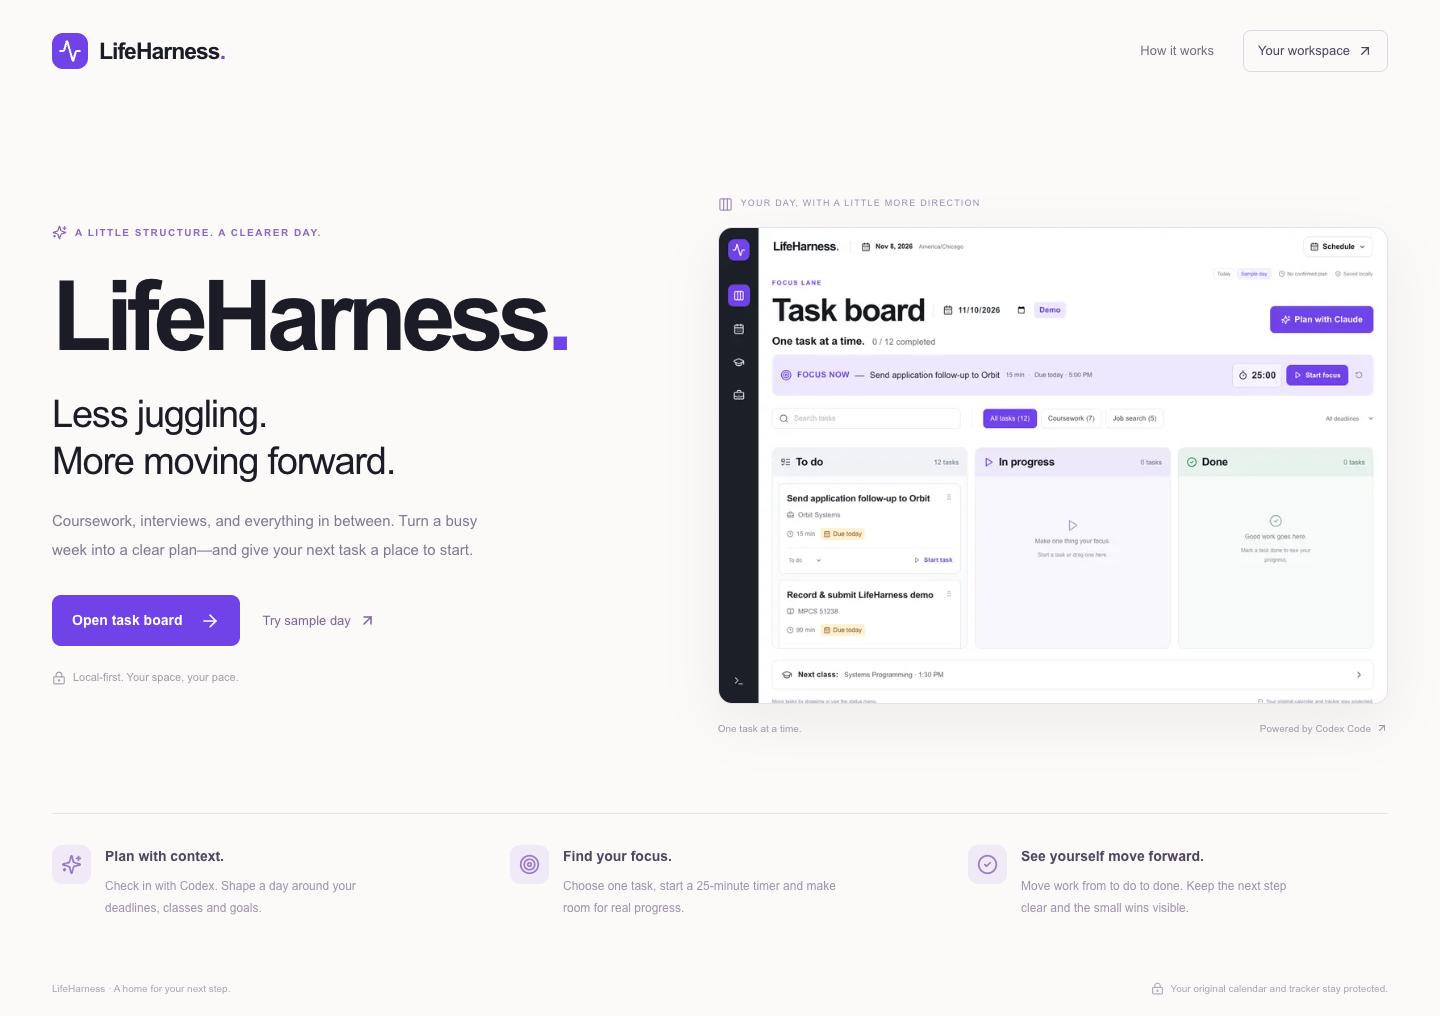
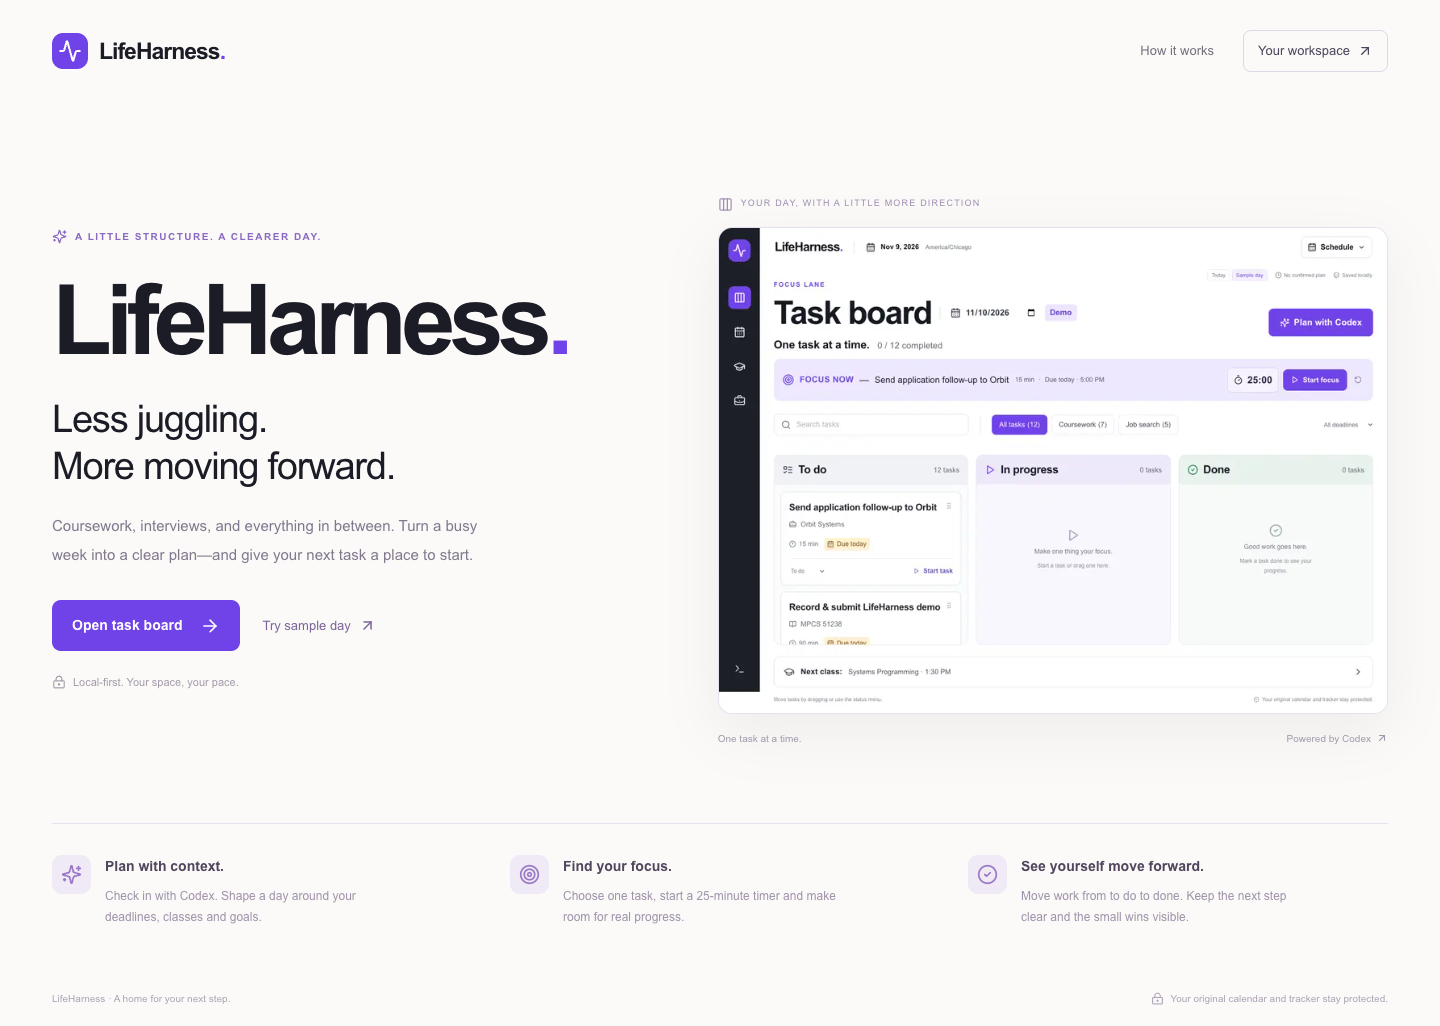
Verify Codex launch policy and document live connection limitation

diff --git a/tests/planner-files.test.ts b/tests/planner-files.test.ts
@@ -1,0 +1,68 @@
+import test from 'node:test';
+import assert from 'node:assert/strict';
+import {
+  mkdtempSync,
+  cpSync,
+  mkdirSync,
+  symlinkSync,
+  readFileSync,
+  readdirSync,
+  rmSync,
+  realpathSync,
+} from 'node:fs';
+import { tmpdir } from 'node:os';
+import { join } from 'node:path';
+import { spawnSync } from 'node:child_process';
+import { evaluateTool } from '../src/lib/protection';
+
+test('Codex quoted JSON writes validate before atomic saving and reject invalid memory', async () => {
+  const root = realpathSync(mkdtempSync(join(tmpdir(), 'lifeharness-helper-')));
+  try {
+    for (const path of ['scripts', 'src/lib', 'data/sources'])
+      cpSync(path, join(root, path), { recursive: true });
+    mkdirSync(join(root, 'data/generated'));
+    symlinkSync(
+      join(process.cwd(), 'node_modules'),
+      join(root, 'node_modules'),
+    );
+    const helper = join(root, 'scripts/planner-files.mjs');
+    const notes = JSON.stringify({
+      updatedAt: new Date().toISOString(),
+      carryOver: ['task-algo'],
+      reflections: ['Confirmed study intention.'],
+    });
+    const command = `node '${helper}' write notes <<'LIFEHARNESS_JSON'\n${notes}\nLIFEHARNESS_JSON`;
+    const event = (command: string) => ({
+      tool_name: 'Bash',
+      cwd: join(root, 'data/generated'),
+      tool_input: { command },
+    });
+    assert.equal((await evaluateTool(event(command), root)).allowed, true);
+    assert.equal(
+      (await evaluateTool(event(command + '\ntouch forbidden'), root)).allowed,
+      false,
+    );
+    assert.equal(
+      (await evaluateTool(event(command.replace(notes, '{}')), root)).allowed,
+      false,
+    );
+    const run = (input: string) =>
+      spawnSync(process.execPath, [helper, 'write', 'notes'], {
+        cwd: join(root, 'data/generated'),
+        input,
+        encoding: 'utf8',
+        env: { ...process.env, TSX_DISABLE_CACHE: '1' },
+      });
+    assert.equal(run(notes).status, 0);
+    const saved = readFileSync(join(root, 'data/generated/notes.json'), 'utf8');
+    assert.deepEqual(JSON.parse(saved), JSON.parse(notes));
+    assert.notEqual(run('{}').status, 0);
+    assert.equal(
+      readFileSync(join(root, 'data/generated/notes.json'), 'utf8'),
+      saved,
+    );
+    assert.deepEqual(readdirSync(join(root, 'data/generated')), ['notes.json']);
+  } finally {
+    rmSync(root, { recursive: true, force: true });
+  }
+});

diff --git a/src/app/page.tsx b/src/app/page.tsx
@@ -80,7 +80,7 @@ export default async function Home({
               aria-label="Explore the task board"
             >
               <Image
-                src="/board-preview.png"
+                src="/codex-board-preview.png"
                 alt="LifeHarness task board with To do, In progress and Done columns, a focus timer and task filters"
                 width={1487}
                 height={1058}
@@ -91,7 +91,7 @@ export default async function Home({
             <div className="home-preview-caption">
               <span>One task at a time.</span>
               <span>
-                Powered by Codex Code
+                Powered by Codex
                 <ArrowUpRight size={12} />
               </span>
             </div>

diff --git a/src/app/layout.tsx b/src/app/layout.tsx
@@ -2,7 +2,7 @@ import type { Metadata } from 'next';
 import './globals.css';
 export const metadata: Metadata = {
   title: 'LifeHarness | Your day, in focus',
-  description: 'A local-first daily planning dashboard powered by Codex Code.',
+  description: 'A local-first daily planning dashboard powered by Codex.',
 };
 export default function RootLayout({
   children,

diff --git a/docs/verification.md b/docs/verification.md
@@ -1,11 +1,58 @@
-# Current Codex verification
+# Codex migration verification — November 9, 2026
 
-Migration is in progress. See the final verification update for actual live evidence.
-Historical Claude records under archive are not current Codex evidence.
+The owner chose a Codex-only adaptation. Historical Claude records in archive are
+not Codex evidence. No confirmed plan is shipped or fabricated as a real check-in.
 
-- Codex CLI installed and authenticated: 0.160.0, ChatGPT login.
-- Native launcher policy, guarded command parser, schema/path tests: 25 unit tests pass.
-- TypeScript check passes.
-- Native OS sandbox rejects opening protected academic source for writing.
-- Morning skill selection, multi-turn confirmation/refusal and live tool-hook integration:
-  pending actual Codex verification; not yet marked passed.
+## Passed locally
+
+- Installed Codex CLI 0.160.0; `codex login status` reports ChatGPT login.
+- Normal `npm run planner:demo` enters the real Codex TUI, with working directory
+  data/generated and the existing GPT-6.1-Sol selection preserved.
+- Native project trust and the two authored hooks were reviewed/trusted in that TUI.
+- `/skills` → List skills → searching `morning` displays the project's
+  `morning-check-in` skill and its planning description. This establishes discovery,
+  not automatic selection during a model response.
+- Launcher enumerates configured MCP servers, disables each with a valid native
+  configuration, then re-enumerates and refuses to launch if any remain enabled.
+- Native `codex sandbox -P :workspace -C data/generated` refuses opening the
+  academic source for writing. The launcher repeats this probe before starting.
+- 26 unit tests pass: date/DST, schemas, references, completion precedence, APIs,
+  stale reads, links/traversal, native command policy and atomic helper writes.
+  Invalid memory leaves the prior saved bytes unchanged and no temporary file.
+- `npm run typecheck`, production build, formatting check and deterministic
+  `npm run test:safety` pass. The latter runs the actual hook process with a
+  simulated malicious Bash payload; it is not a model-tool integration run.
+- 8 Playwright tests pass: landing navigation, responsive board from 320–1487px,
+  filters, task persistence/drag, focus timer, schedule/career, error recovery,
+  focus trapping, and automatic plan refresh. Refresh measured **3408 ms**.
+- Homepage and board screenshots refreshed with current Codex labels.
+- Independent read-only review completed; the stale Claude live-test command and
+  native MCP override compatibility were corrected and reviewed again.
+
+## Attempted, not passed
+
+Actual Codex `exec` morning and isolated hook-test sessions were attempted. CLI
+connections to `wss://chatgpt.com/backend-api/codex/responses` failed with
+`Connection refused (os error 61)`, followed by unsuccessful HTTPS fallback/retries.
+The final live test timed out after 120 seconds (ETIMEDOUT) without a model
+response or tool invocation. Direct curl connectivity
+alone does not establish that the authenticated Codex model route works.
+
+Consequently **automatic skill selection, questions, proposal/refusal leaving files
+unchanged, explicit agreement saving a plan and notes, and an actual Codex tool call
+being rejected by PreToolUse remain unverified**. Do not present the local schema,
+simulated-hook or browser checks as a substitute. `npm run test:hook:live` now invokes
+Codex in a disposable fixture and requires the actual hook denial; failure cannot
+be reported as a pass. It uses reviewed fixture hooks with the automation-only hook
+trust flag; normal launches never bypass hook trust or sandbox approvals.
+
+Once the local Codex connection works, run the live test and the conversation in
+[demo.md](demo.md), then record actual outputs here. The implementation migration is
+complete; full model integration acceptance remains pending this connection issue.
+
+## Protected source hashes
+
[2 lines of base64/hex data omitted]
+
+Both match the pre-migration sources.

diff --git a/docs/design/codex-migration.md b/docs/design/codex-migration.md
@@ -15,8 +15,9 @@ original assignment specifies Claude Code. Keep that distinction in the audit.
 ## Safety and interfaces
 
 Codex starts in data/generated with workspace-write, approvals never, command
-network disabled, no additional writable roots, and user MCP servers/plugins
-explicitly disabled for the session. Before launch an OS-sandbox probe must reject
+network disabled, no additional writable roots, and user MCP servers
+explicitly disabled for the session. Plugin defaults are disabled; plugin tool
+calls are denied by the reviewed hook. Before launch an OS-sandbox probe must reject
 write-open of a protected source. Native skill discovery uses .agents/skills.
 Project hooks are reviewed/trusted through Codex /hooks; no hook-trust bypass in
 normal planner launches. An untrusted/missing hook must not grant source writes:

diff --git a/README.md b/README.md
@@ -61,7 +61,7 @@ records. The source JSON remains read only to both application and planning sess
 
 The supported launcher starts Codex with `data/generated` as its working directory,
 workspace-write sandbox, no extra writable roots, no command network, no escalation,
-and session MCP/plugin restrictions. It first checks that the OS sandbox blocks
+and verified disabled MCP servers, disabled plugin defaults and hook restrictions. It first checks that the OS sandbox blocks
 write-open of a protected source, aborting if this check fails. Hooks allow narrowly
 parsed read commands and validated writes through the helper; arbitrary execution,
 patching and other tool types are denied. Review hook definitions before trusting them.
